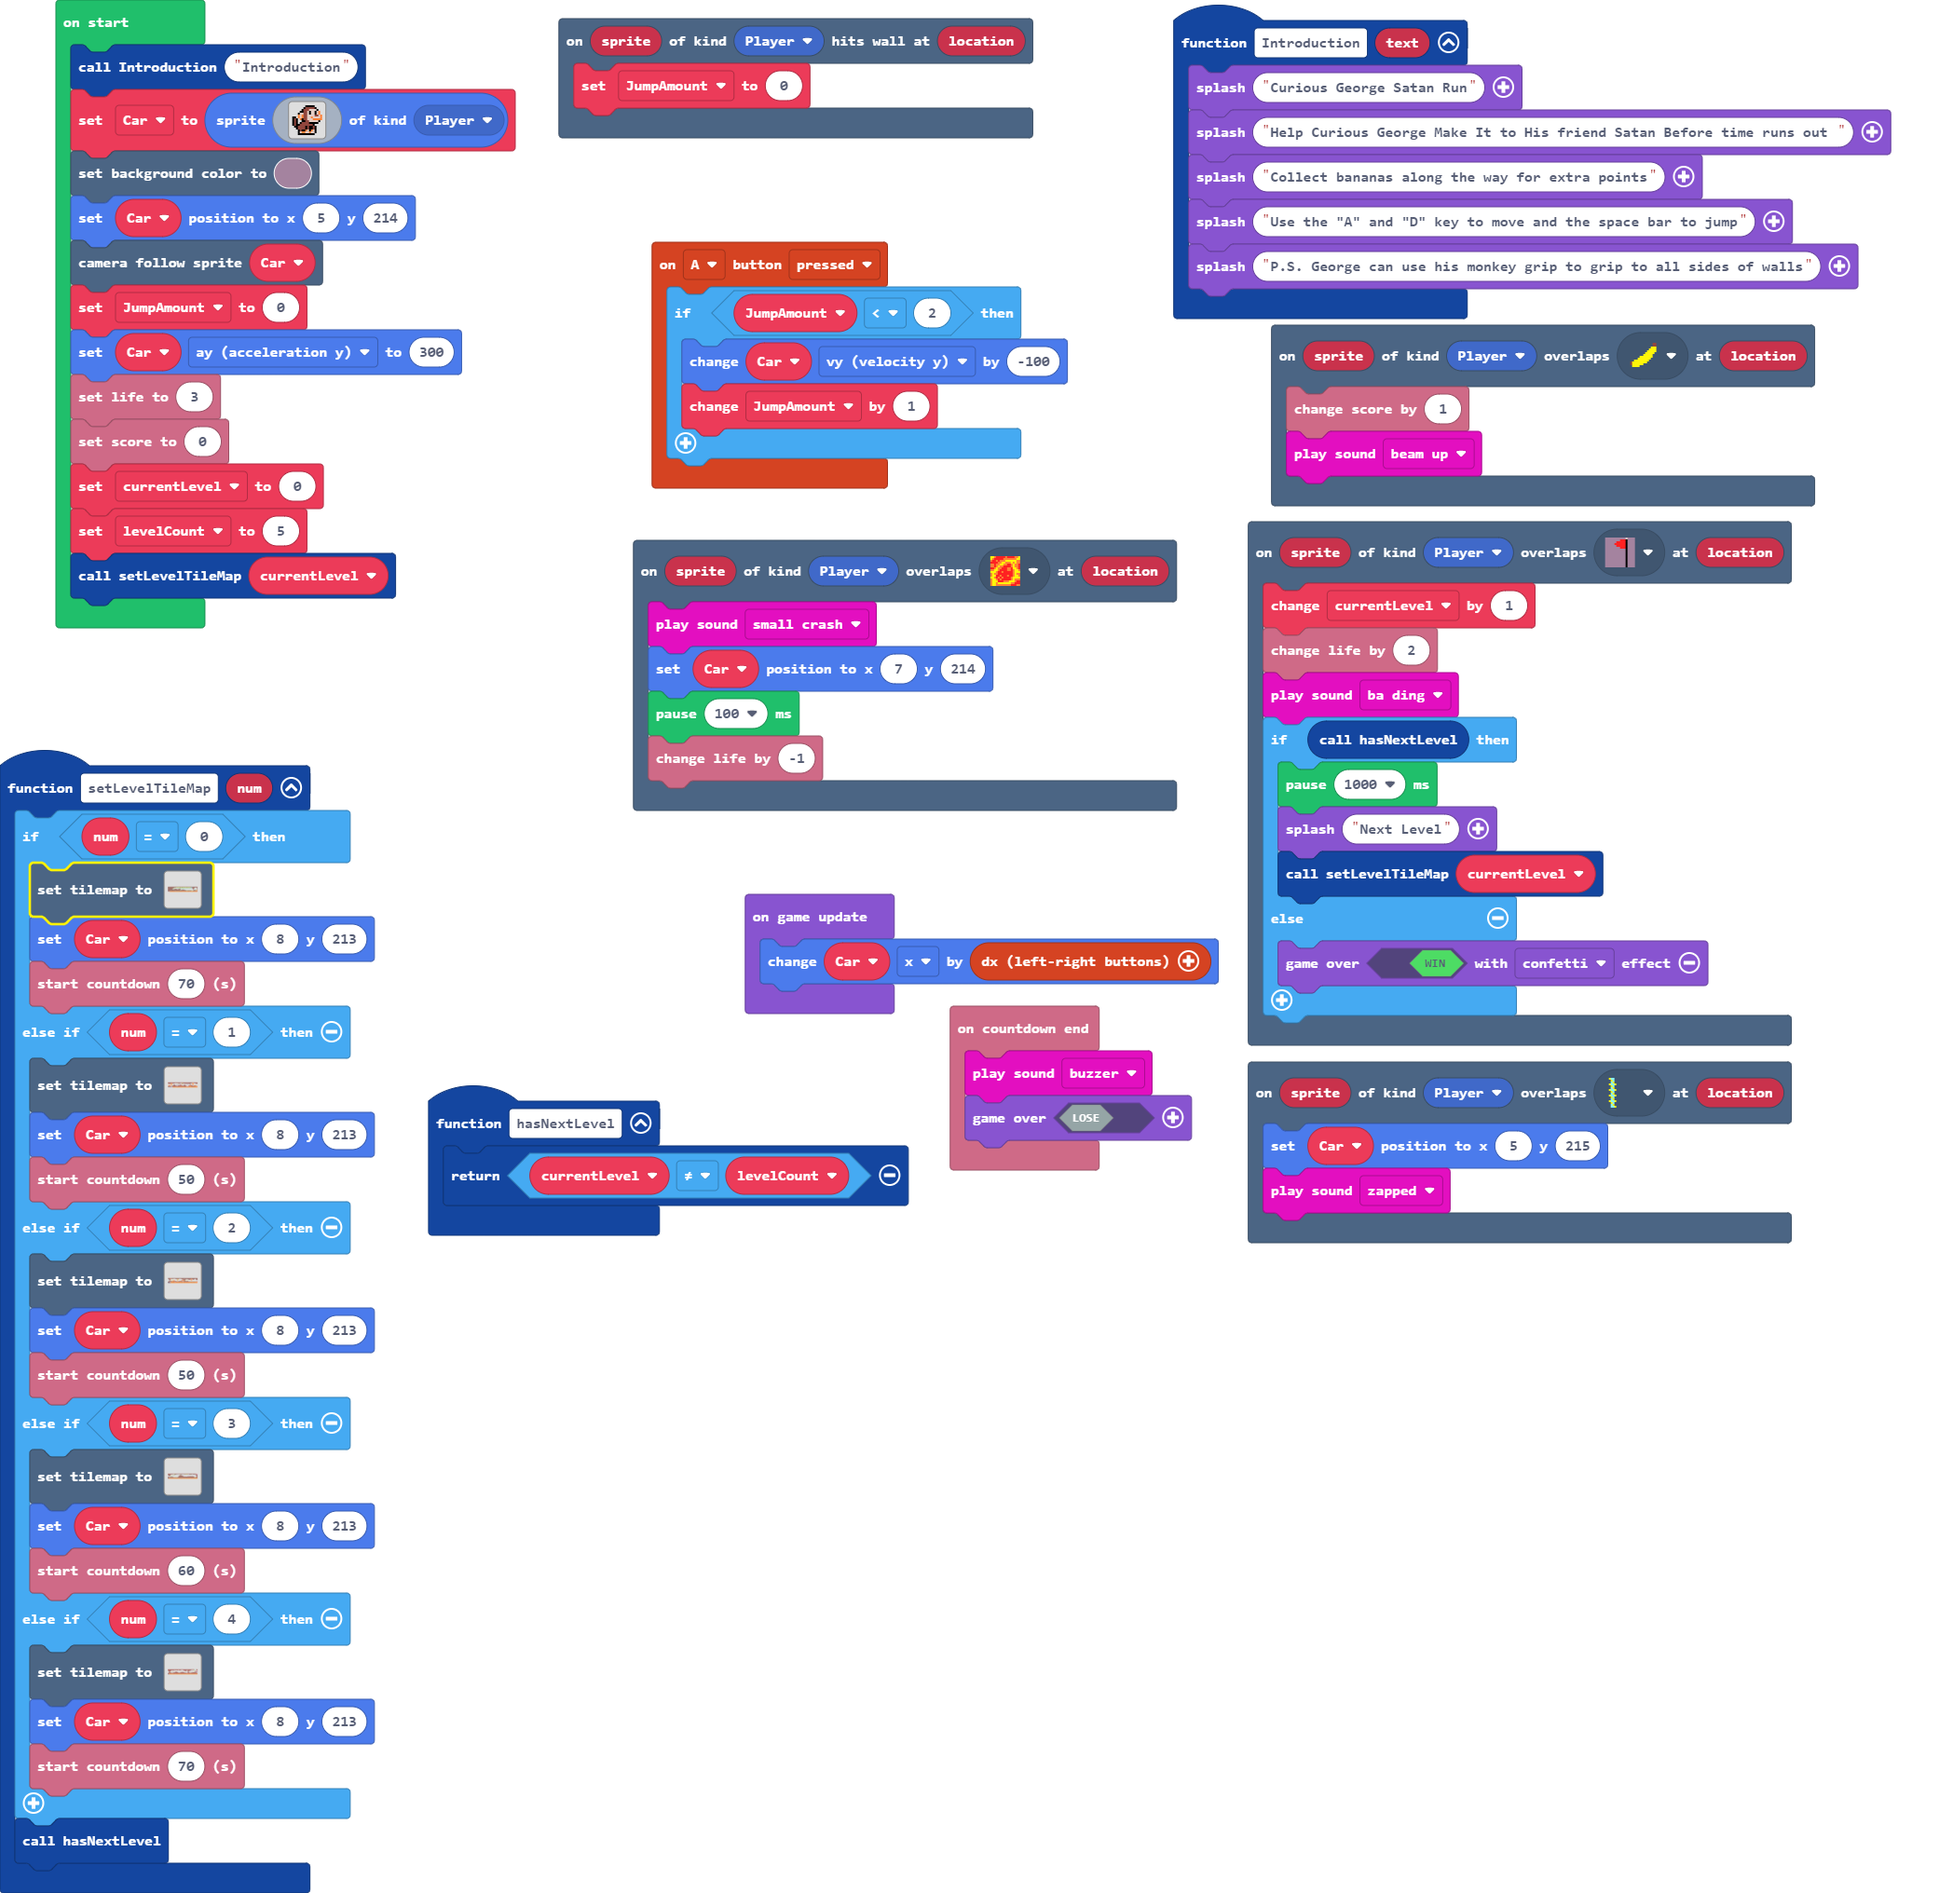
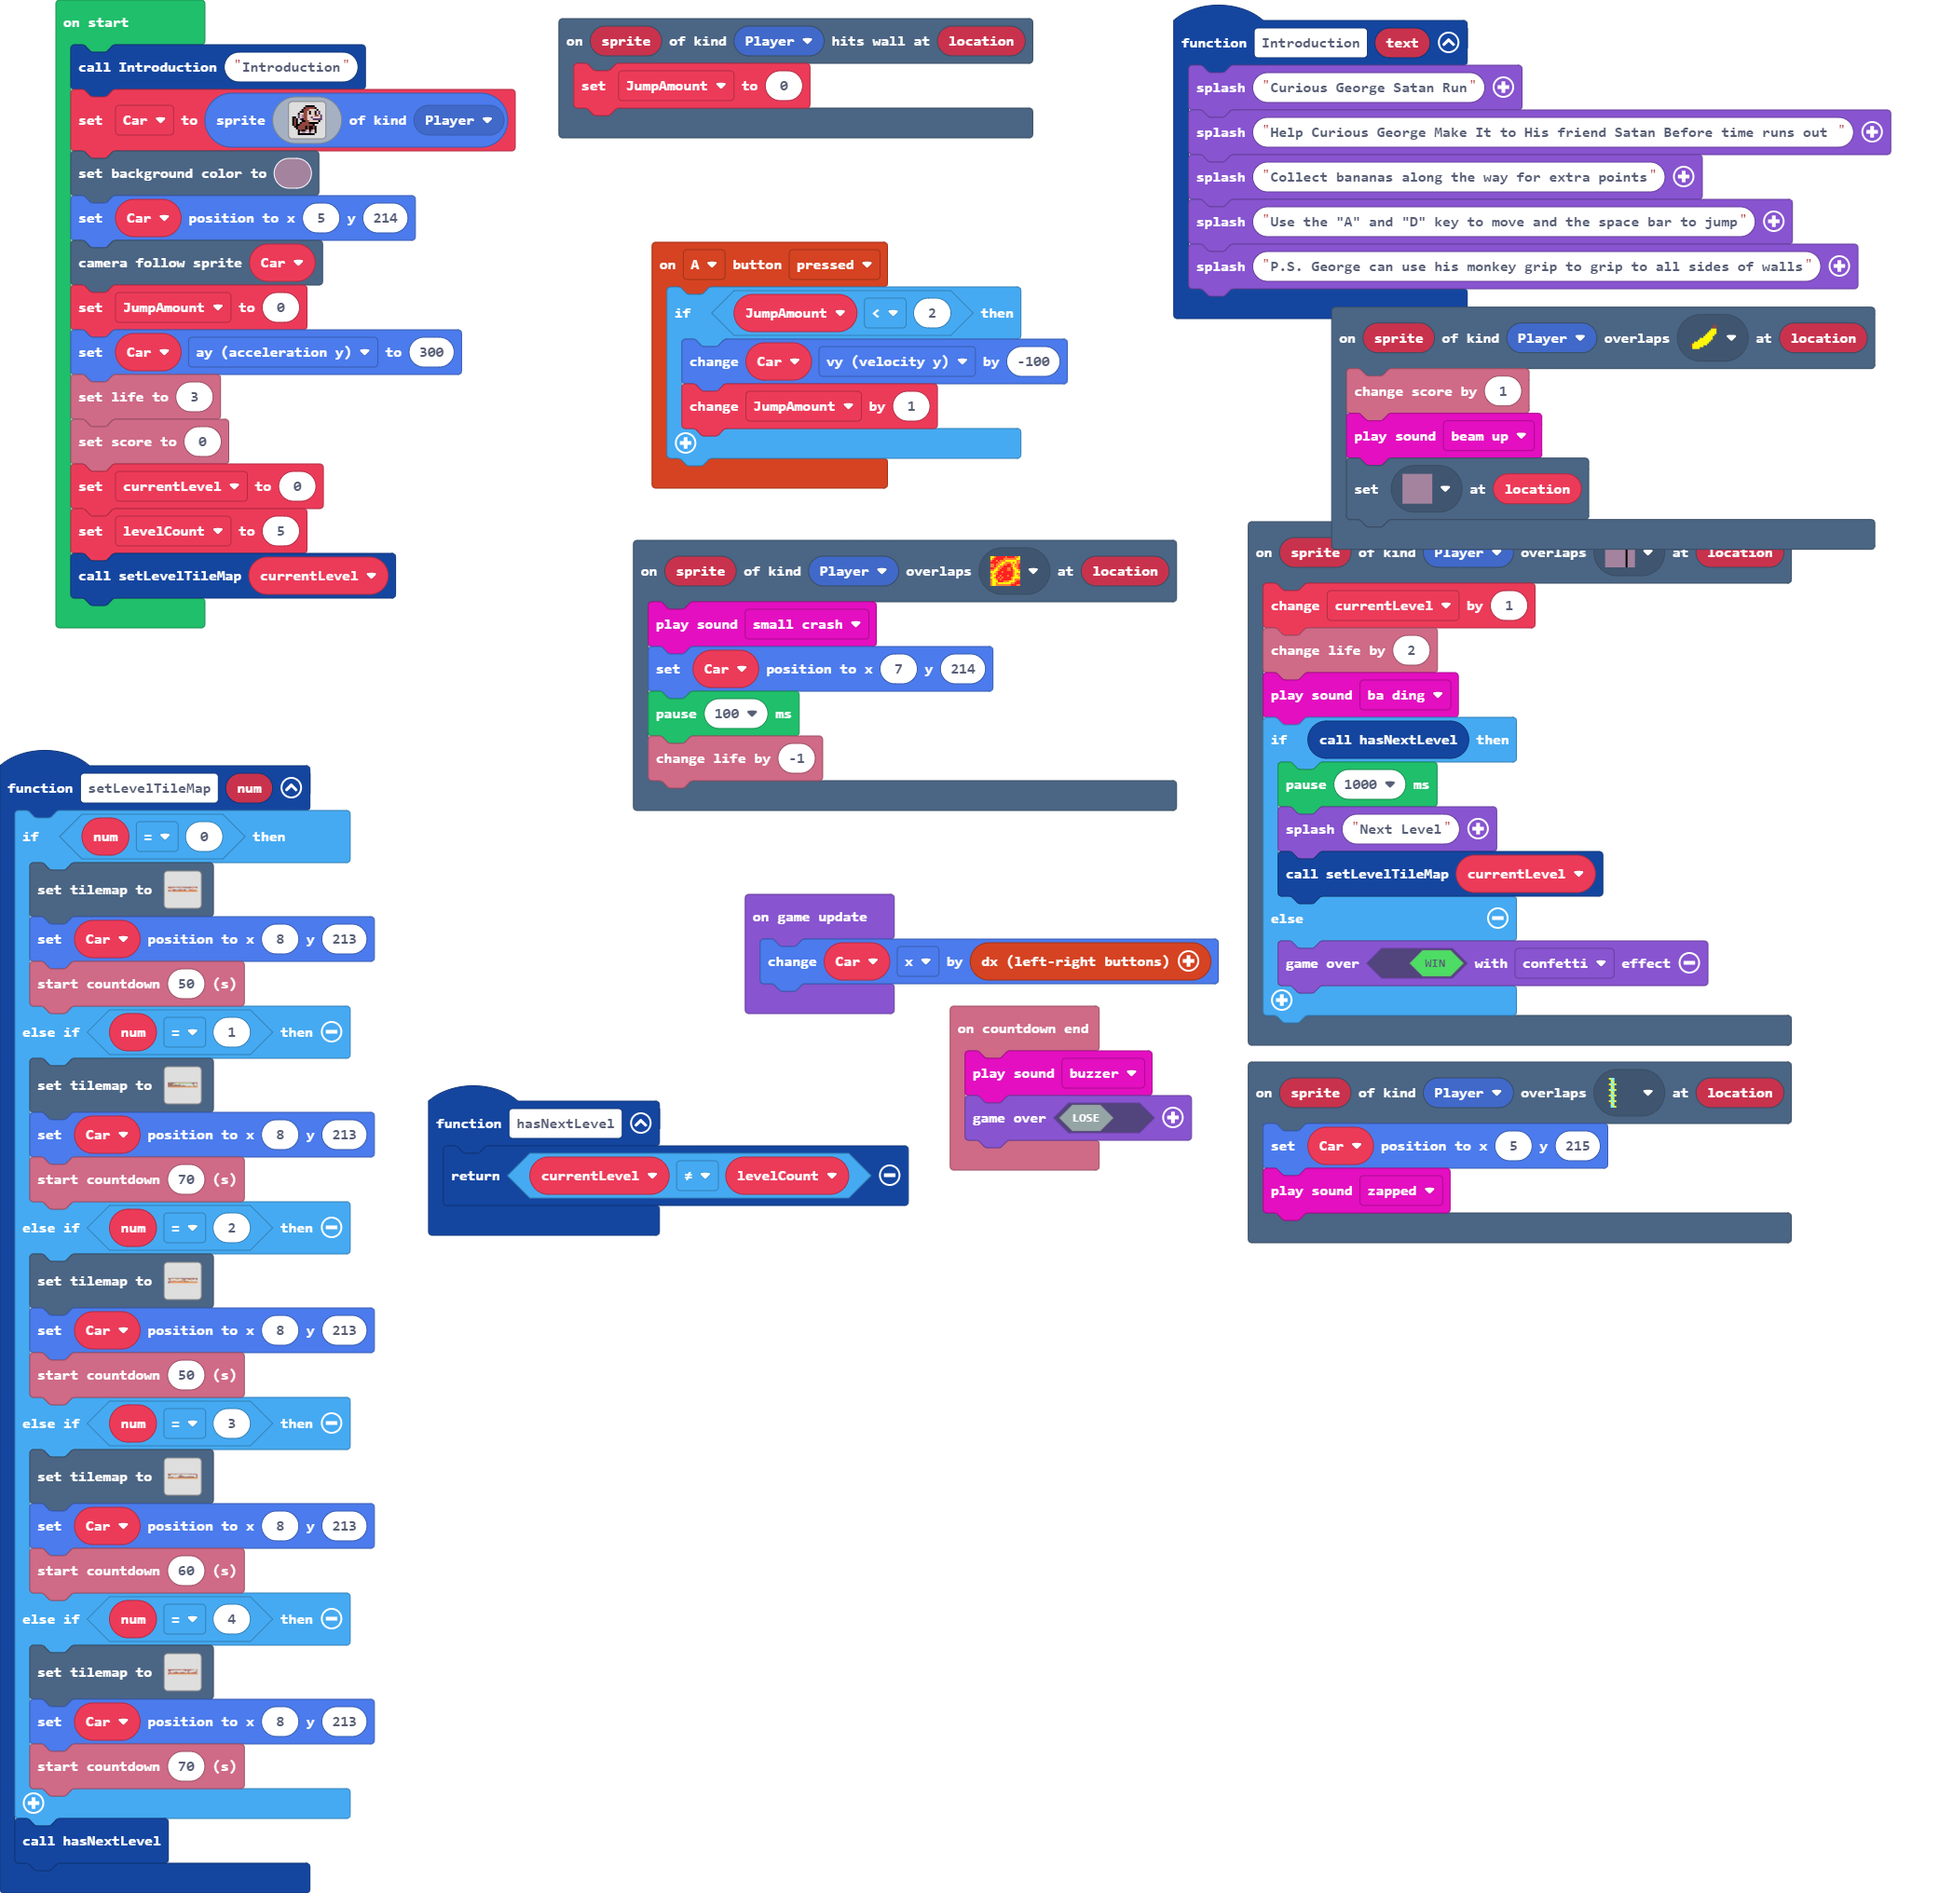
Update main.blocks, main.ts, tilemap.g.jres, tilemap.g.ts

Changed region(s): [[0.6559, 0.155, 0.9683, 0.31]]

diff --git a/tilemap.g.ts b/tilemap.g.ts
@@ -30,6 +30,8 @@ namespace myTiles {
     export const tile13 = image.ofBuffer(hex``);
     //% fixedInstance jres blockIdentity=images._tile
     export const tile14 = image.ofBuffer(hex``);
+    //% fixedInstance jres blockIdentity=images._tile
+    export const tile15 = image.ofBuffer(hex``);
 
     helpers._registerFactory("tilemap", function(name: string) {
         switch(helpers.stringTrim(name)) {
@@ -109,25 +111,6 @@ namespace myTiles {
 . . . . . . . . . . . . . . . . 
 . . . . . . . . . . . . . . . . 
 `, [myTiles.transparency16], TileScale.Sixteen);
-            case "level3":
[1 lines of base64/hex data omitted]
-.................................................................................2..................
-.................................................................................2..................
-.................................................................................2..................
-.........................2.2..2222222222222222222222222222222222222222222222222222..................
-.......................2............................................................................
-.....................2..............................................................................
-...................2........................................................................2.......
-...................................................22...............................................
-.................2.............................22.....22...................................2........
-...............2....................................................................................
-.............2.....2........................22............22..............................2.........
-...........2.........22..................22...................22....................................
-.........2...............22..........22..........................22..22...22...22..222...2.....22222
-.......2.....................22..22............................................................22222
-222222..............................................................................................
-2222222222222222222222222222222222222222222222222222222222222222222222222222222222222222222222222222
-`, [myTiles.transparency16,myTiles.tile1,myTiles.tile3,myTiles.tile12,myTiles.tile9,myTiles.tile7,sprites.dungeon.darkGroundNorthWest1,sprites.dungeon.floorLight0,sprites.dungeon.hazardLava0,sprites.dungeon.collectibleInsignia,myTiles.tile2], TileScale.Sixteen);
             case "level1":
[1 lines of base64/hex data omitted]
 ....................................................................................................
@@ -318,6 +301,25 @@ namespace myTiles {
 . . . . . . . . . . . . . . . . 
 . . . . . . . . . . . . . . . . 
 `, [myTiles.transparency16], TileScale.Sixteen);
+            case "level3":
[1 lines of base64/hex data omitted]
+.................................................................................2..................
+.................................................................................2..................
+.................................................................................2..................
+.........................2.2..2222222222222222222222222222222222222222222222222222..................
+.......................2............................................................................
+.....................2..............................................................................
+...................2........................................................................2.......
+...................................................22...............................................
+.................2.............................22.....22...................................2........
+...............2....................................................................................
+.............2.....2........................22............22..............................2.........
+...........2.........22..................22...................22....................................
+.........2...............22..........22..........................22..22...22...22..222...2.....22222
+.......2.....................22..22............................................................22222
+222222..............................................................................................
+2222222222222222222222222222222222222222222222222222222222222222222222222222222222222222222222222222
+`, [myTiles.transparency16,myTiles.tile1,myTiles.tile3,myTiles.tile12,myTiles.tile9,myTiles.tile7,sprites.dungeon.darkGroundNorthWest1,sprites.dungeon.floorLight0,sprites.dungeon.hazardLava0,sprites.dungeon.collectibleInsignia,myTiles.tile2,myTiles.tile15], TileScale.Sixteen);
         }
         return null;
     })
@@ -353,6 +355,8 @@ namespace myTiles {
             case "tile13":return tile13;
             case "myTile10":
             case "tile14":return tile14;
+            case "myTile11":
+            case "tile15":return tile15;
         }
         return null;
     })

diff --git a/main.ts b/main.ts
@@ -15,13 +15,13 @@ scene.onHitWall(SpriteKind.Player, function (sprite, location) {
 })
 function setLevelTileMap (num: number) {
     if (num == 0) {
-        tiles.setTilemap(tilemap`level3`)
-        Car.setPosition(8, 213)
-        info.startCountdown(70)
-    } else if (num == 1) {
         tiles.setTilemap(tilemap`level1`)
         Car.setPosition(8, 213)
         info.startCountdown(50)
+    } else if (num == 1) {
+        tiles.setTilemap(tilemap`level3`)
+        Car.setPosition(8, 213)
+        info.startCountdown(70)
     } else if (num == 2) {
         tiles.setTilemap(tilemap`level2`)
         Car.setPosition(8, 213)
@@ -67,6 +67,7 @@ function Introduction (text: string) {
 scene.onOverlapTile(SpriteKind.Player, assets.tile`Banana`, function (sprite, location) {
     info.changeScoreBy(1)
     music.beamUp.play()
+    tiles.setTileAt(location, assets.tile`myTile11`)
 })
 function hasNextLevel () {
     return currentLevel != levelCount
@@ -80,18 +81,18 @@ Car = sprites.create(img`
     . . . . . . . f f f f f . . . . 
     . . . . . . f e e e e e f . . . 
     . . . . . f e e e d d d d f . . 
-    . . . . f f e e d f d d f d 4 . 
-    . . . f d d e e d f d d f d 4 . 
-    . . . 4 d 4 e e d d d d e e d 4 
-    f f . 4 d 4 e e d d 4 d d d d 4 
-    f e f . 4 f e e d d d 4 4 4 4 4 
+    . . . . f f e e d f d d f d c . 
+    . . . f d d e e d f d d f d c . 
+    . . . c d b e e d d d d e e d c 
+    f f . c d b e e d d c d d d d c 
+    f e f . c f e e d d d c c c c c 
     f e f . . f f e e d d d d d f . 
     f e f . f e e e e f f f f f . . 
     f e f f e e e e e e e f . . . . 
     . f f e e e e f e f f e f . . . 
     . . f e e e e f e f f e f . . . 
-    . . . f e f f 4 d f 4 d f . . . 
-    . . . f d 4 4 d d 4 d d f . . . 
+    . . . f e f f b d f b d f . . . 
+    . . . f d b b d d c d d f . . . 
     . . . f f f f f f f f f . . . . 
     `, SpriteKind.Player)
 scene.setBackgroundColor(11)
